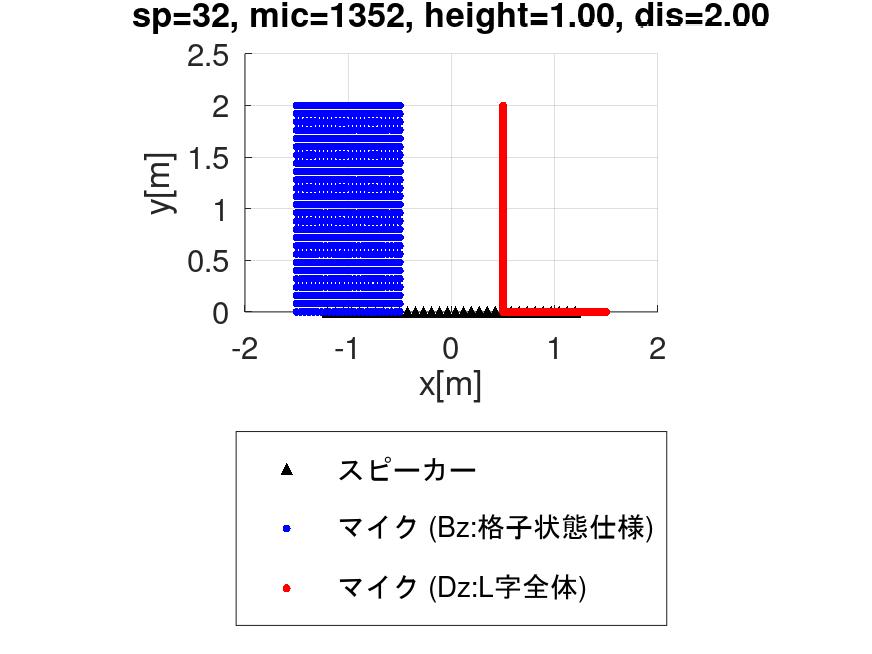
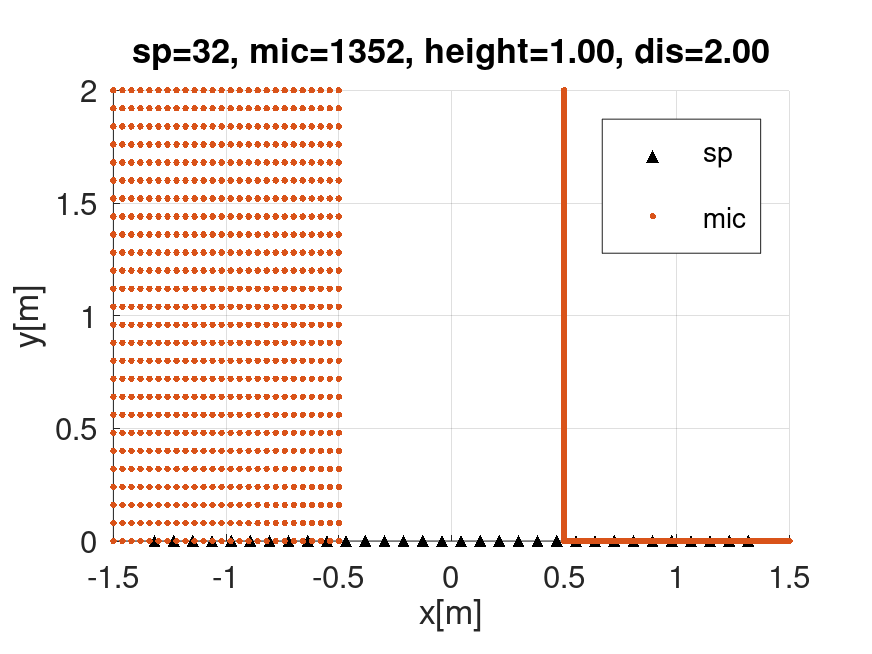
DzのみLの字に制御点

diff --git a/pos_sp_mic.m b/pos_sp_mic.m
@@ -1,4 +1,4 @@
-# スピーカーとマイクの配置座標を計算する関数
+% スピーカーとマイクの配置座標を計算する関数
 function [pos_sp, pos_mic, num_mic] = pos_sp_mic(num_sp, y_center, n_x, n_y, d1, d2, pltPos)
 
     % スピーカーの配置形状を切り替えるフラグ（false: 直線状 / true: 円弧状）
@@ -21,25 +21,39 @@ function [pos_sp, pos_mic, num_mic] = pos_sp_mic(num_sp, y_center, n_x, n_y, d1,
     % -----------------------
     % 点格納
     % -----------------------
-    pos_bz = zeros(n_x*n_y,2);
-    pos_dz = zeros(n_x*n_y,2);
+    num_bz = n_x * n_y; % ブライトゾーンの総点数
+    pos_bz = zeros(num_bz, 2);
 
+    % BZ（左）：格子状に配置
     n = 0;
     for x_idx = 1:length(bz_x)
         for y_idx = 1:length(bz_y)
             n = n + 1;
-
-            % BZ（左）
             pos_bz(n,:) = [bz_x(x_idx) + bz_center(1), ...
                         bz_y(y_idx) + bz_center(2)];
+        end
+    end
 
-            % DZ（右）
-            pos_dz(n,:) = [bz_x(x_idx) + dz_center(1), ...
-                        bz_y(y_idx) + dz_center(2)];
+    % DZ（右）：【Lの字型に修正しつつ、点数をBzと完全に一致させる】
+    % 縦辺（長さ d2）と底辺（長さ d1）の総延長に沿って、点数を均等に分配します。
+    % これにより角の重複もなくなり、Bzと次元が一致するためエラーが解消します。
+    L_total = d1 + d2; 
+    s = linspace(0, L_total, num_bz)'; % 0からL字総延長までの等間隔ベクトル
+
+    pos_dz = zeros(num_bz, 2);
+    for i = 1:num_bz
+        if s(i) <= d2
+            % 縦辺（Dz領域の左端：上から下へ向かう）
+            pos_dz(i, 1) = dz_center(1) - d1/2;
+            pos_dz(i, 2) = (dz_center(2) + d2/2) - s(i);
+        else
+            % 底辺（Dz領域の下端：左から右へ向かう）
+            pos_dz(i, 1) = (dz_center(1) - d1/2) + (s(i) - d2);
+            pos_dz(i, 2) = dz_center(2) - d2/2;
         end
     end
     
-    % 前半32点がブライト、後半32点がダークとなるよう1つの行列に結合 [64行 × 2列]
+    % 前半がブライト（格子）、後半がダーク（L字）となるよう1つの行列に結合
     pos_mic = [pos_bz; pos_dz];
     % 実際に生成された総点数を main.m 側へ返す
     num_mic = size(pos_mic, 1);
@@ -63,17 +77,15 @@ function [pos_sp, pos_mic, num_mic] = pos_sp_mic(num_sp, y_center, n_x, n_y, d1,
     %% 直線状にスピーカーを配置する場合（デフォルト）
     else
         itv_sp = 0.085;   % スピーカー同士の間隔 [m]（8.5cm間隔）
-        % ※この間隔から計算される空間サンプリング周波数は約2000Hzになります
         
         x_sp_1 = -(num_sp-1)/2 * itv_sp;
-        y_sp_1 = 0;       % スピーカーアレイの基準高さ（y=0、つまり床面に設置するイメージ）
+        y_sp_1 = 0;       % スピーカーアレイの基準高さ（y=0）
         
-        pos_sp = zeros(num_sp, 2);    % スピーカー座標の格納行列を初期化 [32行 × 2列]
+        pos_sp = zeros(num_sp, 2);    % スピーカー座標の格納行列を初期化
         pos_sp(1,:) = [x_sp_1, y_sp_1]; % 1台目の座標を代入
         
-        % 2台目以降のスピーカーの x 座標を等間隔（itv_spずつ足していく）で計算
+        % 2台目以降のスピーカーの x 座標を等間隔で計算
         pos_sp(2:end, 1) = x_sp_1 + (1:num_sp-1) * itv_sp;
-        % （y座標は初期化時の0のまま固定）
     end
 
     %% ---------------------------------------------------------------------
@@ -84,24 +96,23 @@ function [pos_sp, pos_mic, num_mic] = pos_sp_mic(num_sp, y_center, n_x, n_y, d1,
         
         % スピーカー位置を黒い「▲」でプロット
         h1 = scatter(pos_sp(:,1), pos_sp(:,2), 'k', '^', 'filled'); hold on;
-        % 制御点をサイズ10の「●」でプロット（デフォルト色）
+        % 制御点をサイズ10の「●」でプロット
         h2 = scatter(pos_mic(:,1), pos_mic(:,2), 10, 'filled');
         
-        daspect([1 1 1])    % グラフの縦横比（アスペクト比）を 1:1 に固定（空間の歪みをなくす）
+        daspect([1 1 1])    % グラフの縦横比を 1:1 に固定
         xlim([-1.5,1.5 ])   % x軸の表示範囲を -1.5m 〜 1.5m に設定
         ylim([0, 2])        % y軸の表示範囲を 0m 〜 2m に設定
         grid on;            % グリッド線を表示
         
         xlabel("x[m]"); ylabel("y[m]"); % 軸ラベルの設定
-        legend({"sp", "mic"});           % 凡例の表示（sp = スピーカー, mic = マイク）
+        legend({"sp", "mic"});           % 凡例の表示
         
         % 設定条件を自動的に組み込んだ保存用ファイル名を作成
         filename = sprintf("plc_sp_%d_mic_%d_zone-h_%.2fm_zone-dis_%.2fm.png", ...
-                           num_sp, num_mic, y_center, dist_zone);
-        % グラフのタイトルを設定
+                            num_sp, num_mic, y_center, dist_zone);
         title(sprintf("sp=%d, mic=%d, height=%.2f, dis=%.2f", num_sp, num_mic, y_center, dist_zone));
         
-        set(gca, 'fontsize', 15)       % 文字サイズを大きくして見やすくする
-        saveas(gcf, filename, 'png');  % 描画したグラフをPNG画像として保存
+        set(gca, 'fontsize', 15)       
+        saveas(gcf, filename, 'png');  
     end
 end
